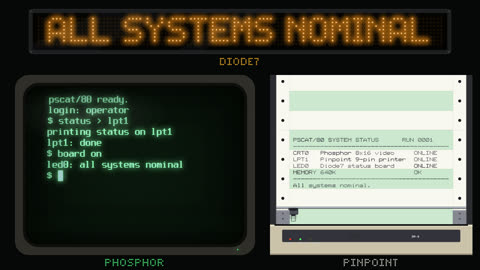
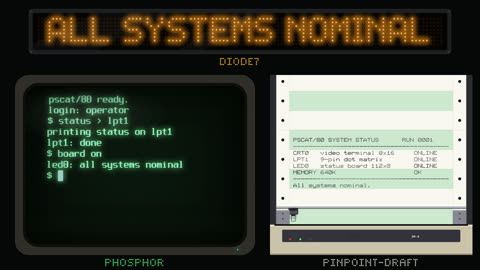
Boot Sequence labels print the face names; clock-ledsign takes /Font /Diode7
The film's labels are the face names it defines once at the top, and the
terminal and report describe the devices without naming faces, so a
renamed face is one edit. clock-ledsign gains the same face option as
ledmatrix.

Claude-Session: https://claude.ai/code/session_016y8NtRwbytznw2TA4YtQw9

Changed region(s): [[0.6562, 0.9481, 0.875, 1.0], [0.6562, 0.563, 0.8438, 0.6222]]

diff --git a/crates/psanim/tests/clocks.rs b/crates/psanim/tests/clocks.rs
@@ -110,3 +110,18 @@ fn every_theme_draws_every_clock() {
         }
     }
 }
+
+#[test]
+fn the_led_sign_clock_can_be_set_in_the_diode7_face() {
+    let src = psanim::catalog::source("clock-ledsign").unwrap();
+    let mut opts = Options::default();
+    opts.params.insert("Scroll".into(), Param::Number(0.0));
+    opts.params.insert("Start".into(), Param::parse("10:00:00"));
+    let mut own = Movie::load(src, &opts).unwrap();
+    opts.params
+        .insert("Font".into(), Param::Text("Diode7".into()));
+    let mut face = Movie::load(src, &opts).unwrap();
+    // Diode7's zero is slashed and pkpixel's is not: the same time, other dots.
+    assert_ne!(at(&mut own, 0.0), at(&mut face, 0.0));
+    assert_eq!(at(&mut face, 0.0), at(&mut face, 0.0));
+}

diff --git a/gallery/boot-sequence/README.md b/gallery/boot-sequence/README.md
@@ -35,8 +35,11 @@ three integrations:
 - The labels are plain `show` in `/Diode5`, loaded once in setup by
   `pixelface`, because `findfont` does not load these faces by name.
 
-The film names the faces once, at the top; psanim keeps their files in one
-table at the top of `crates/psanim/lib/pkpixel.ps`.
+The film names the faces once, at the top, and the labels print those
+names (`32 string cvs`), so a renamed face renames its label; the
+terminal and the report describe the devices without naming faces. psanim
+keeps the faces' files in one table at the top of
+`crates/psanim/lib/pkpixel.ps`.
 
 **Time comes from one session plan.** The printer starts at the mark where
 `status > lpt1` is entered; the session then waits as long as the printer

diff --git a/skills/psanim/references/catalog.md b/skills/psanim/references/catalog.md
@@ -96,6 +96,7 @@ The time on a scrolling LED sign: a 5 by 7 dot matrix with unlit dots faintly vi
 
 | Param | Default | Meaning |
 |---|---|---|
+| /Font | `7` | 7: psanim's 7-row pixel font; /Diode7: PSCat's LED face (its digits and colon) |
 | /Gap | `12` | blank dot columns between one showing of the time and the next |
 | /Panel | `1` | 1 paints the sign's dark housing, 0 leaves the dots on whatever is there |
 | /Scroll | `14` | dot columns per second the text moves left (0 holds it still) |

diff --git a/skills/psanim/references/type.md b/skills/psanim/references/type.md
@@ -300,6 +300,7 @@ The catalog's devices take a face:
   dots wide on the same 9 pins; `/Quality` still chooses one pass or two.
 - `/ledmatrix` with `/Font /Diode7` or `/Diode5` lights the face's lamps;
   Diode7's lower case needs a grid 8 rows high for its descenders.
+- `/clock-ledsign` with `/Font /Diode7` shows the time in Diode7's digits.
 
 The face names live in one table at the top of pkpixel, so a rename
 touches one line there. The gallery's *Boot Sequence* uses all three
